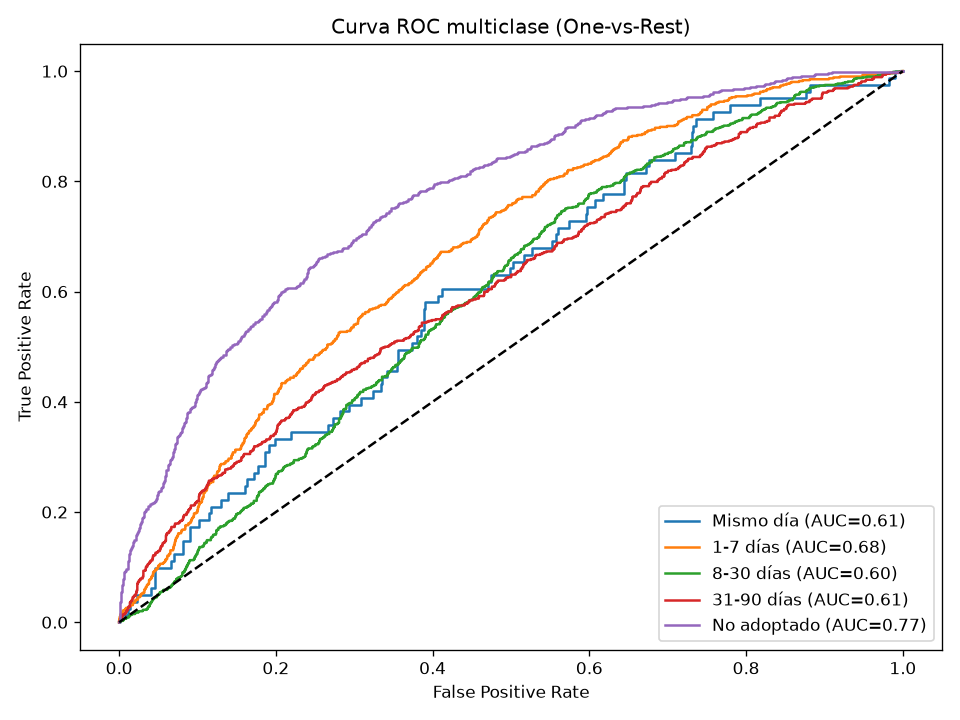
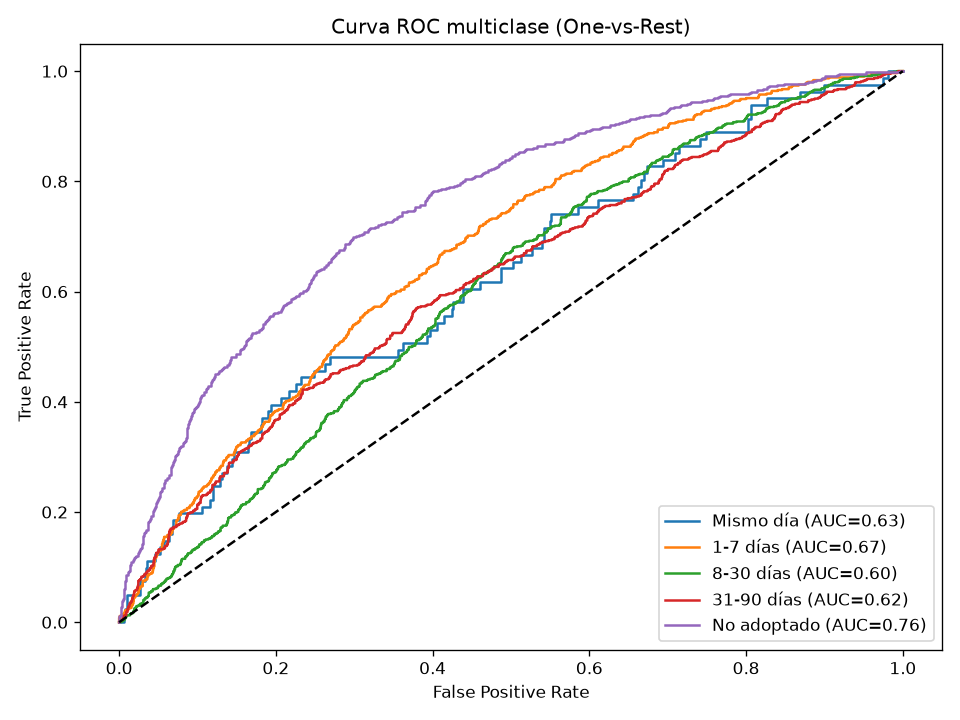
modified train en src, Eda y limpieza

diff --git a/src/train.py b/src/train.py
@@ -211,9 +211,12 @@ def main():
             class_weight="balanced",
             random_state=RANDOM_STATE, n_jobs=-1
         ),
-        "GradientBoosting": GradientBoostingClassifier(
-            random_state=RANDOM_STATE
-        ),
+       "GradientBoosting": GradientBoostingClassifier(
+           random_state=RANDOM_STATE,
+           max_depth=2,
+           min_samples_leaf=20,
+           subsample=0.8,
+           ),
     }
 
     print("\n=== Validación cruzada (5-Fold, F1 macro) ===")
@@ -230,15 +233,18 @@ def main():
 
     # ── GridSearchCV ────────────────────────────────────────────────────────────
     grids = {
-        "LogisticRegression": {"clf__C": [0.1, 1.0]},
-        "RandomForest": {
-            "clf__n_estimators": [100],
-            "clf__max_depth":    [5, 7],
+            "LogisticRegression": {"clf__C": [0.1, 1.0]},
+            "RandomForest": {
+            "clf__n_estimators":      [200, 300],
+            "clf__max_depth":         [5, 6, 7],
+            "clf__min_samples_leaf":  [25, 35, 50],
         },
         "GradientBoosting": {
-            "clf__n_estimators":  [100],
-            "clf__learning_rate": [0.1],
-            "clf__max_depth":     [3],
+            "clf__n_estimators":      [100, 150],
+            "clf__learning_rate":     [0.03, 0.05],
+            "clf__max_depth":         [2],
+            "clf__subsample":         [0.7, 0.8],
+            "clf__min_samples_leaf":  [20, 30],
         },
     }
 